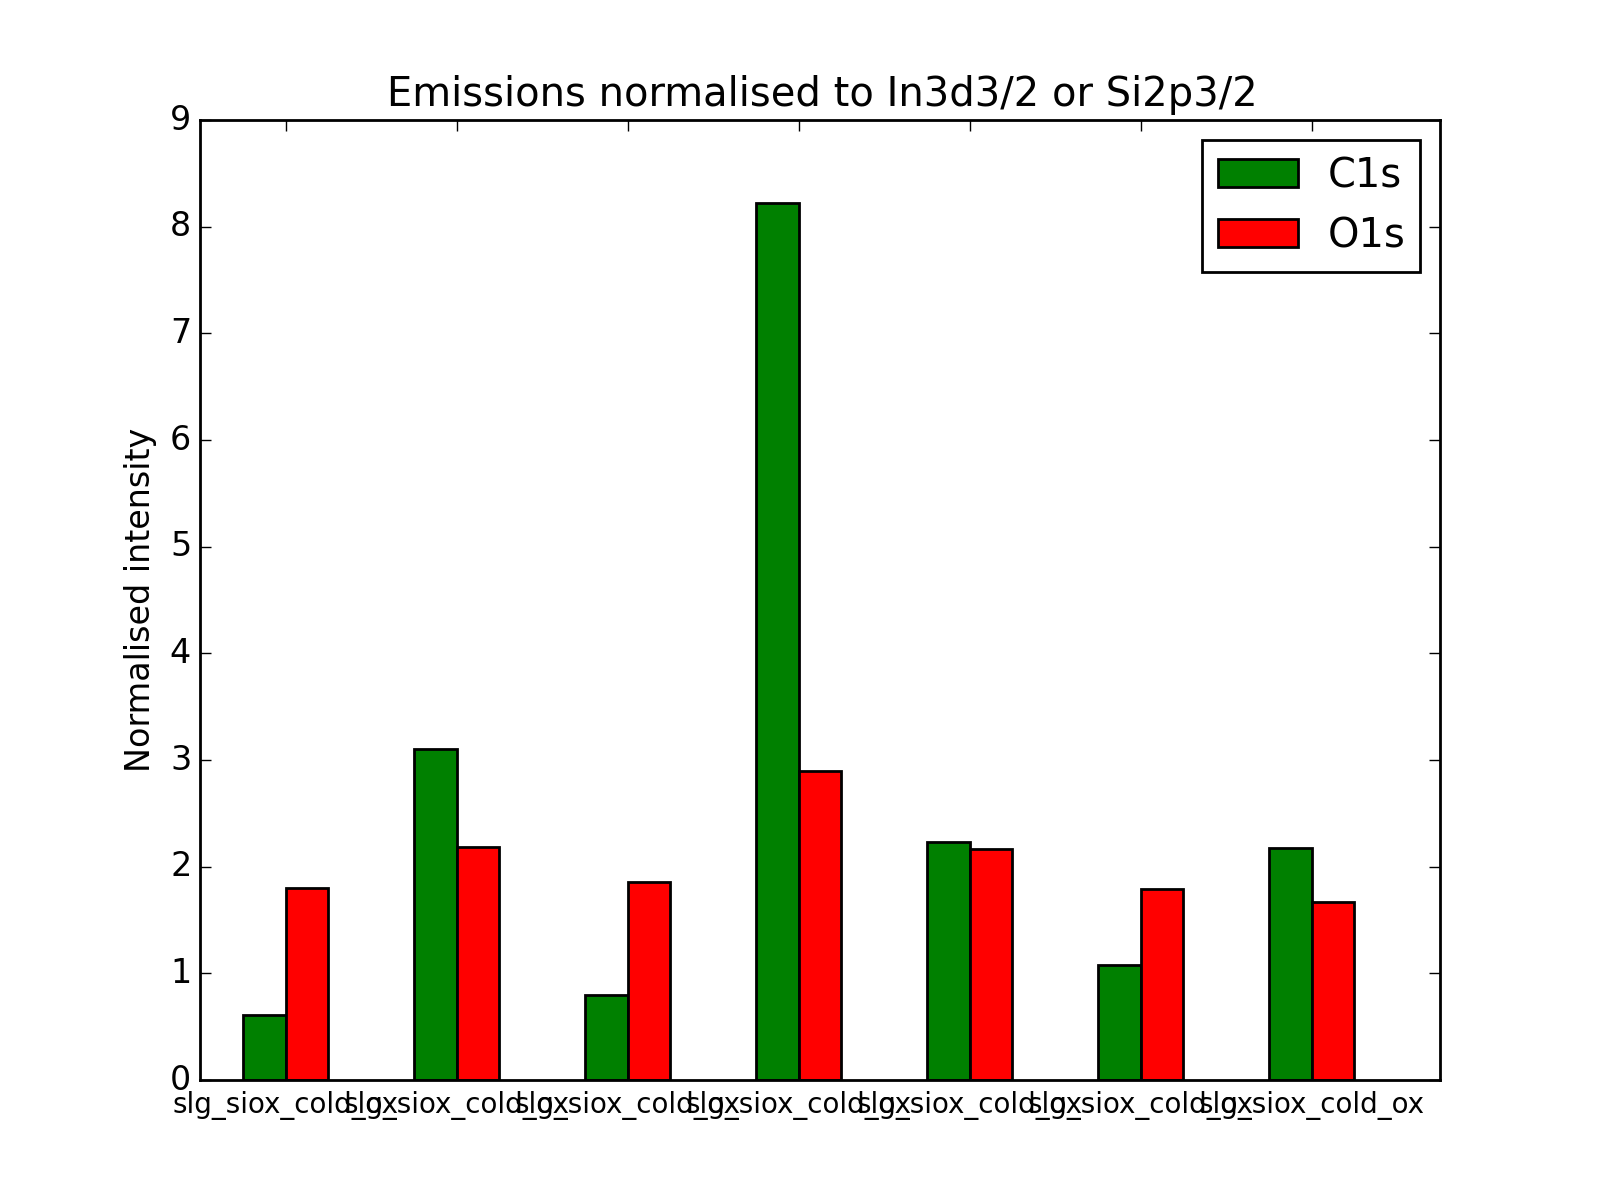
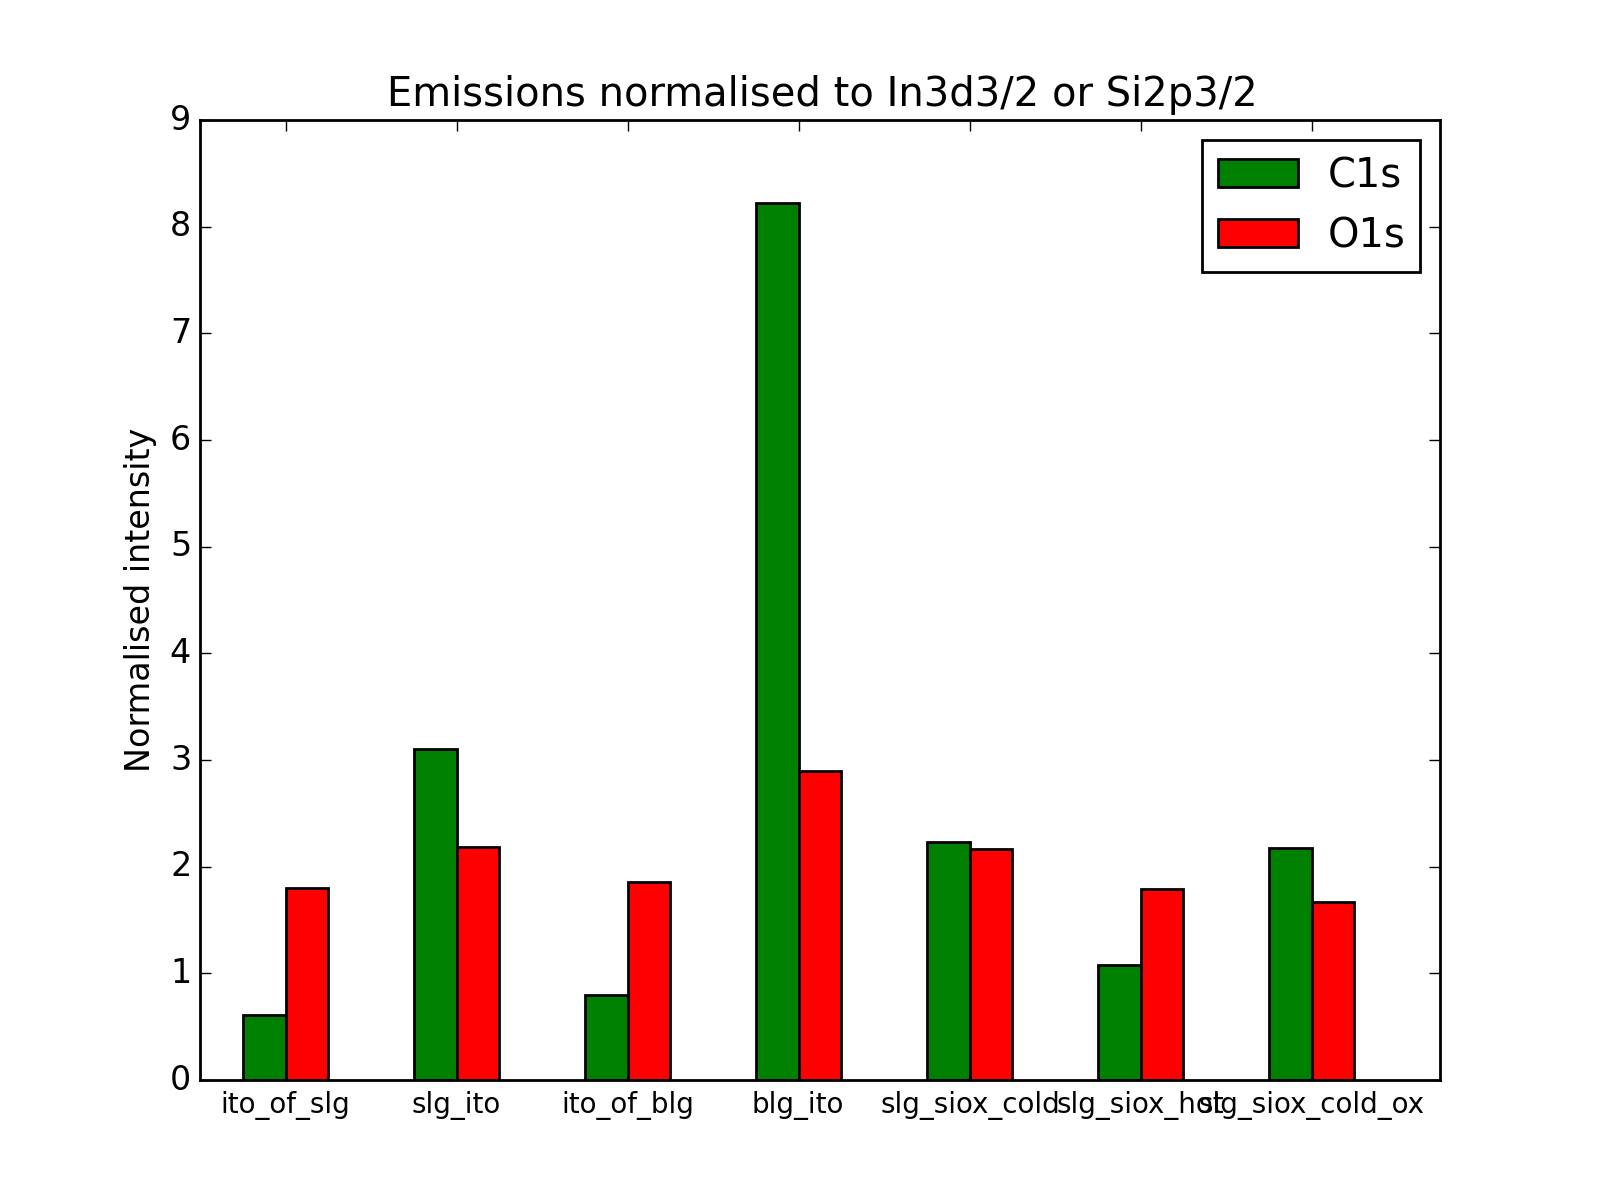
fixed naming labeling of x-axis

Changed region(s): [[0.125, 0.8942, 0.7812, 0.9558]]

diff --git a/bars_plot.py b/bars_plot.py
@@ -19,11 +19,13 @@ f.close()
 
 c1s = [] #initiate the lists containing the data
 o1s = [] #initiate the lists containing the data
+name = []
 
 for line in lines:
     p = line.split() #split every line in lines 
     c1s.append(float(p[1])) #append each line of column 1
     o1s.append(float(p[2])) #append each line of column 2
+    name.append(p[0]) #creates naming of axis
 
 N = int(len(c1s))
 
@@ -44,7 +46,7 @@ ax.set_xlim(-width,len(ind))
 ax.set_ylim(0,9)
 ax.set_ylabel('Normalised intensity')
 ax.set_title('Emissions normalised to In3d3/2 or Si2p3/2')
-xTickMarks = [p[0] for line in lines] #['Group'+str(i) for i in range(1,8)]
+xTickMarks = name #['Group'+str(i) for i in range(1,8)]
 ax.set_xticks(ind+width)
 xtickNames = ax.set_xticklabels(xTickMarks)
 plt.setp(xtickNames, rotation=0, fontsize=10)
